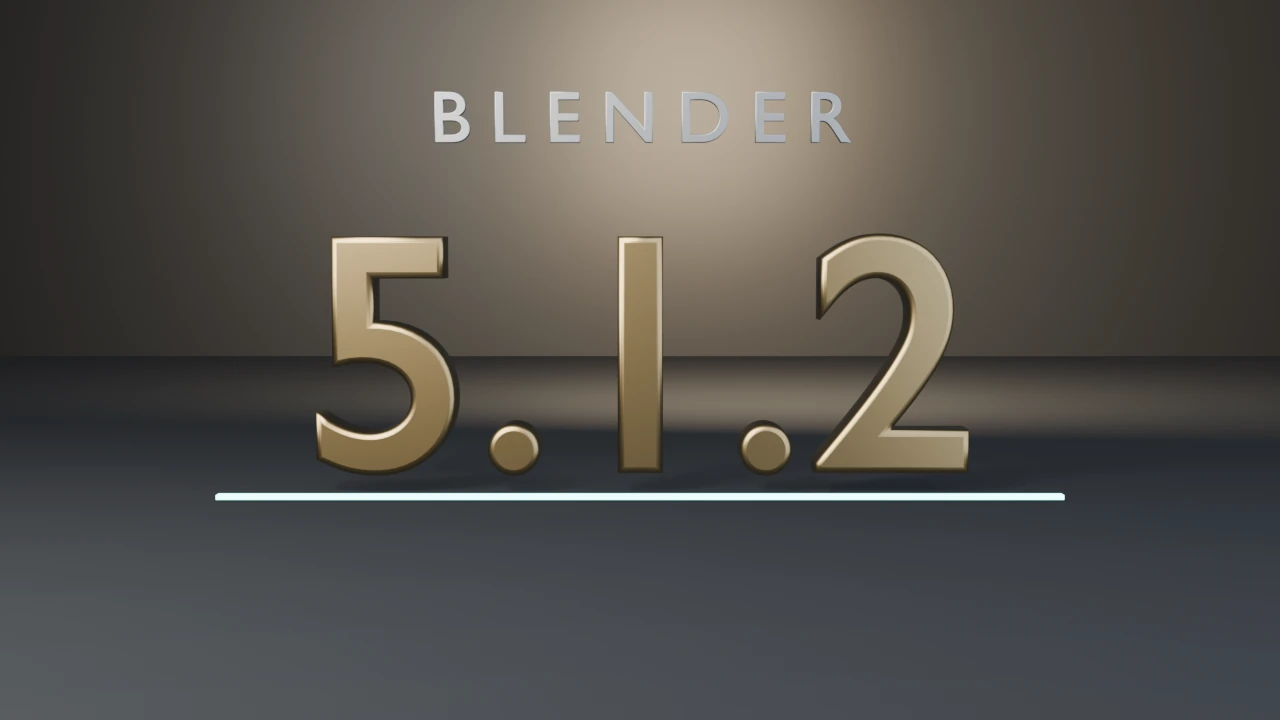
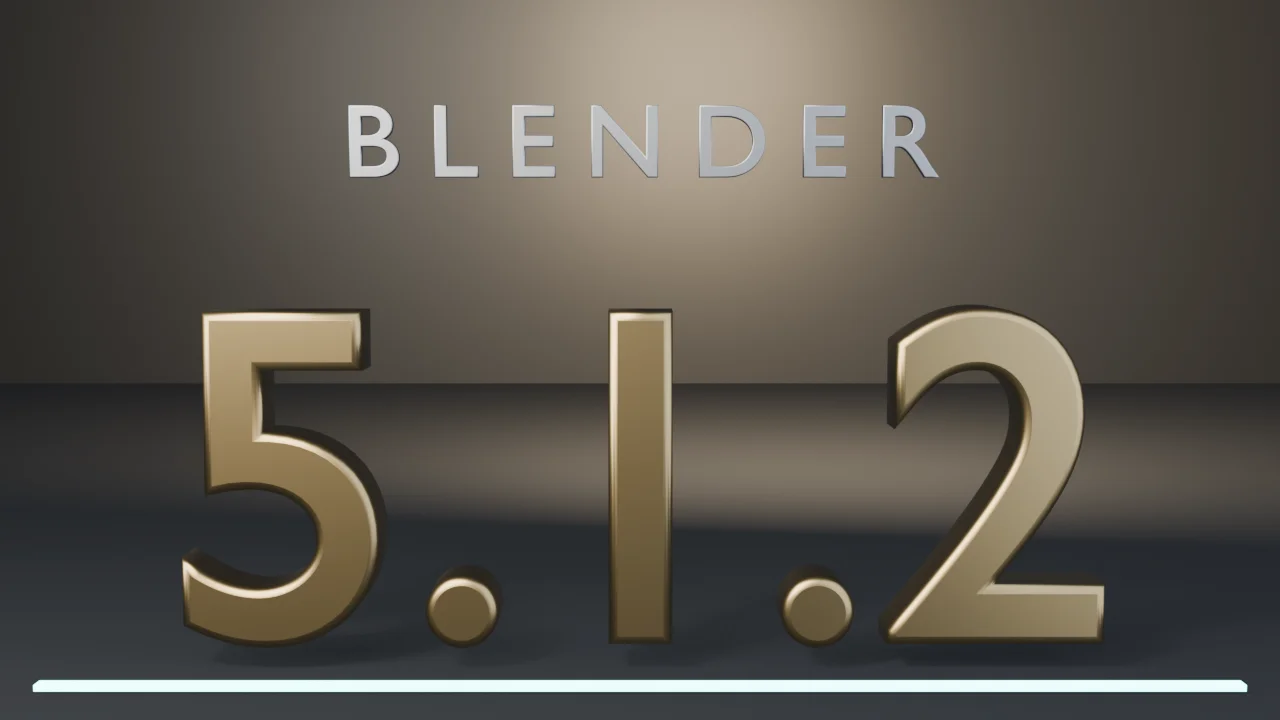
fix: recompose text-version-stamp so the stamp fills the frame
The stamp sat at 0.663x fill with a dead lower third (fixed-pitch
camera at (0,-8.5,1.15)). Reframed to an aim-based camera at
(0,-6.0,1.5) tracking the stamp's vertical center — hero fill
0.719x/0.478y (the bar is the widest element, so side margins bind at
L/R 0.025; the stamp's constant-width scaling keeps any version-string
length in frame, confirmed on 4.5.11's longer "4.5.11 LTS" body at
0.716x). Caption, stamp, and underline bar now balance the frame and
the live version string reads unmistakably. Render path gated with
check_framing (exit 10); check values unchanged (body, flat vs solid
extents, faces=2917). Gate falsified at lens 64 (fill 0.922 FAIL,
exit 10) and restored. Pass-2 variant (stale "9.9.9" body) is
unmistakable at the reframed size. The pre-existing AgX default and
lighter studio variant are left untouched (accepted look, flagged).

diff --git a/docs/gallery/text-version-stamp/index.html b/docs/gallery/text-version-stamp/index.html
@@ -194,6 +194,7 @@ blender --background --python text_version_stamp.py --
 blender --background --python text_version_stamp.py -- --output stamp.png
 blender --background --python text_version_stamp.py -- --output stamp.png --engine cycles</code></pre>
 <p>It exits non-zero on failure (wrong subclass, missing font, body/version mismatch, non-planar flat text, extrude/bevel closed form off, geometry not regenerating, or a <code>to_mesh_clear()</code> reference surviving). The <code>blender-smoke</code> workflow runs the check on Blender 4.5 LTS and 5.1. The render scales the stamp to a constant width, so the frame holds for any version-string length.</p>
+<p>The <code>--output</code> render path additionally measures framing against the Layer 1 band via <code>examples/gallery_framing.py</code> (exit 10 on violation) before writing the still.</p>
     </section>
     <section class="detail-section src">
       <h2>Source</h2>
@@ -225,6 +226,11 @@ check. Pass --output to also render a still:
     blender --background --python text_version_stamp.py -- --output v.png  # + render
 &quot;&quot;&quot;</span>
 <span class="k">import</span> bpy, sys, os, math, argparse
+
+<span class="c"># Shared Layer 1 framing measurement (render path only) — see gallery_framing.py</span>
+sys.path.insert(<span class="n">0</span>, os.path.join(os.path.dirname(os.path.abspath(__file__)), os.pardir))
+sys.dont_write_bytecode = <span class="k">True</span>  <span class="c"># keep examples/__pycache__ out of the repo tree</span>
+<span class="k">import</span> gallery_framing
 
 EXTRUDE = <span class="n">0.06</span>
 BEVEL = <span class="n">0.02</span>
@@ -433,9 +439,18 @@ TOL = <span class="n">1e-4</span>
     cam_data = bpy.data.cameras.new(<span class="s">&quot;Cam&quot;</span>)
     cam_data.lens = <span class="n">50.0</span>
     cam = bpy.data.objects.new(<span class="s">&quot;Cam&quot;</span>, cam_data)
-    cam.location = (<span class="n">0.0</span>, -<span class="n">8.5</span>, <span class="n">1.15</span>)
-    cam.rotation_euler = (math.radians(<span class="n">86.5</span>), <span class="n">0.0</span>, <span class="n">0.0</span>)
+    <span class="c"># Reframed: the old (0,-8.5,1.15) fixed 86.5° pitch left the stamp at</span>
+    <span class="c"># 0.663 fill with a dead lower third; moved in with an aim on the stamp&#x27;s</span>
+    <span class="c"># vertical center so text, caption, and underline bar balance the frame.</span>
+    cam.location = (<span class="n">0.0</span>, -<span class="n">6.0</span>, <span class="n">1.5</span>)
     scene.collection.objects.link(cam)
+    aim = bpy.data.objects.new(<span class="s">&quot;Aim&quot;</span>, <span class="k">None</span>)
+    aim.location = (<span class="n">0.0</span>, <span class="n">0.0</span>, <span class="n">1.05</span>)
+    scene.collection.objects.link(aim)
+    con = cam.constraints.new(<span class="s">&#x27;TRACK_TO&#x27;</span>)
+    con.target = aim
+    con.track_axis = <span class="s">&#x27;TRACK_NEGATIVE_Z&#x27;</span>
+    con.up_axis = <span class="s">&#x27;UP_Y&#x27;</span>
     scene.camera = cam
 
     scene.render.engine = <span class="s">&#x27;CYCLES&#x27;</span> <span class="k">if</span> engine == <span class="s">&#x27;cycles&#x27;</span> <span class="k">else</span> eevee_engine_id()
@@ -450,8 +465,22 @@ TOL = <span class="n">1e-4</span>
     scene.render.resolution_y = <span class="n">720</span>
     scene.render.image_settings.file_format = <span class="s">&#x27;PNG&#x27;</span>
     scene.render.filepath = path
+    <span class="c"># Layer 1 framing gate (silhouette matte) — exit 10 on violation, before</span>
+    <span class="c"># the beauty render so a defective composition ships no artifact. The hero</span>
+    <span class="c"># is the version stamp; caption and underline bar count for margins.</span>
+    fcode = gallery_framing.check_framing(
+        scene, cam,
+        hero=[obj],
+        elements=[obj, cap_obj, bar],
+        stage=[floor, wall],
+    )
+    <span class="k">if</span> fcode:
+        <span class="k">return</span> fcode
     bpy.ops.render.render(write_still=<span class="k">True</span>)
-    <span class="k">return</span> os.path.exists(path) <span class="k">and</span> os.path.getsize(path) &gt; <span class="n">0</span>
+    <span class="k">if</span> <span class="k">not</span> (os.path.exists(path) <span class="k">and</span> os.path.getsize(path) &gt; <span class="n">0</span>):
+        print(<span class="s">&quot;ERROR: render produced no file&quot;</span>, file=sys.stderr)
+        <span class="k">return</span> <span class="n">9</span>
+    <span class="k">return</span> <span class="n">0</span>
 
 
 <span class="k">def</span> main():
@@ -468,9 +497,9 @@ TOL = <span class="n">1e-4</span>
         <span class="k">return</span> code
 
     <span class="k">if</span> args.output:
-        <span class="k">if</span> <span class="k">not</span> render_still(obj, os.path.abspath(args.output), args.engine):
-            print(<span class="s">&quot;ERROR: render produced no file&quot;</span>, file=sys.stderr)
-            <span class="k">return</span> <span class="n">9</span>
+        rcode = render_still(obj, os.path.abspath(args.output), args.engine)
+        <span class="k">if</span> rcode:
+            <span class="k">return</span> rcode
         print(<span class="s">f&quot;</span><span class="s">rendered still </span>{args.output}<span class="s">&quot;</span>)
 
     print(<span class="s">&quot;text-version-stamp OK&quot;</span>)

diff --git a/examples/text-version-stamp/text_version_stamp.py b/examples/text-version-stamp/text_version_stamp.py
@@ -23,6 +23,11 @@ check. Pass --output to also render a still:
 """
 import bpy, sys, os, math, argparse
 
+# Shared Layer 1 framing measurement (render path only) — see gallery_framing.py
+sys.path.insert(0, os.path.join(os.path.dirname(os.path.abspath(__file__)), os.pardir))
+sys.dont_write_bytecode = True  # keep examples/__pycache__ out of the repo tree
+import gallery_framing
+
 EXTRUDE = 0.06
 BEVEL = 0.02
 TOL = 1e-4
@@ -230,9 +235,18 @@ def render_still(obj, path, engine):
     cam_data = bpy.data.cameras.new("Cam")
     cam_data.lens = 50.0
     cam = bpy.data.objects.new("Cam", cam_data)
-    cam.location = (0.0, -8.5, 1.15)
-    cam.rotation_euler = (math.radians(86.5), 0.0, 0.0)
+    # Reframed: the old (0,-8.5,1.15) fixed 86.5° pitch left the stamp at
+    # 0.663 fill with a dead lower third; moved in with an aim on the stamp's
+    # vertical center so text, caption, and underline bar balance the frame.
+    cam.location = (0.0, -6.0, 1.5)
     scene.collection.objects.link(cam)
+    aim = bpy.data.objects.new("Aim", None)
+    aim.location = (0.0, 0.0, 1.05)
+    scene.collection.objects.link(aim)
+    con = cam.constraints.new('TRACK_TO')
+    con.target = aim
+    con.track_axis = 'TRACK_NEGATIVE_Z'
+    con.up_axis = 'UP_Y'
     scene.camera = cam
 
     scene.render.engine = 'CYCLES' if engine == 'cycles' else eevee_engine_id()
@@ -247,8 +261,22 @@ def render_still(obj, path, engine):
     scene.render.resolution_y = 720
     scene.render.image_settings.file_format = 'PNG'
     scene.render.filepath = path
+    # Layer 1 framing gate (silhouette matte) — exit 10 on violation, before
+    # the beauty render so a defective composition ships no artifact. The hero
+    # is the version stamp; caption and underline bar count for margins.
+    fcode = gallery_framing.check_framing(
+        scene, cam,
+        hero=[obj],
+        elements=[obj, cap_obj, bar],
+        stage=[floor, wall],
+    )
+    if fcode:
+        return fcode
     bpy.ops.render.render(write_still=True)
-    return os.path.exists(path) and os.path.getsize(path) > 0
+    if not (os.path.exists(path) and os.path.getsize(path) > 0):
+        print("ERROR: render produced no file", file=sys.stderr)
+        return 9
+    return 0
 
 
 def main():
@@ -265,9 +293,9 @@ def main():
         return code
 
     if args.output:
-        if not render_still(obj, os.path.abspath(args.output), args.engine):
-            print("ERROR: render produced no file", file=sys.stderr)
-            return 9
+        rcode = render_still(obj, os.path.abspath(args.output), args.engine)
+        if rcode:
+            return rcode
         print(f"rendered still {args.output}")
 
     print("text-version-stamp OK")

diff --git a/examples/text-version-stamp/README.md b/examples/text-version-stamp/README.md
@@ -38,3 +38,5 @@ non-planar flat text, extrude/bevel closed form off, geometry not regenerating, 
 `to_mesh_clear()` reference surviving). The `blender-smoke` workflow runs the check on
 Blender 4.5 LTS and 5.1. The render scales the stamp to a constant width, so the frame
 holds for any version-string length.
+
+The `--output` render path additionally measures framing against the Layer 1 band via `examples/gallery_framing.py` (exit 10 on violation) before writing the still.